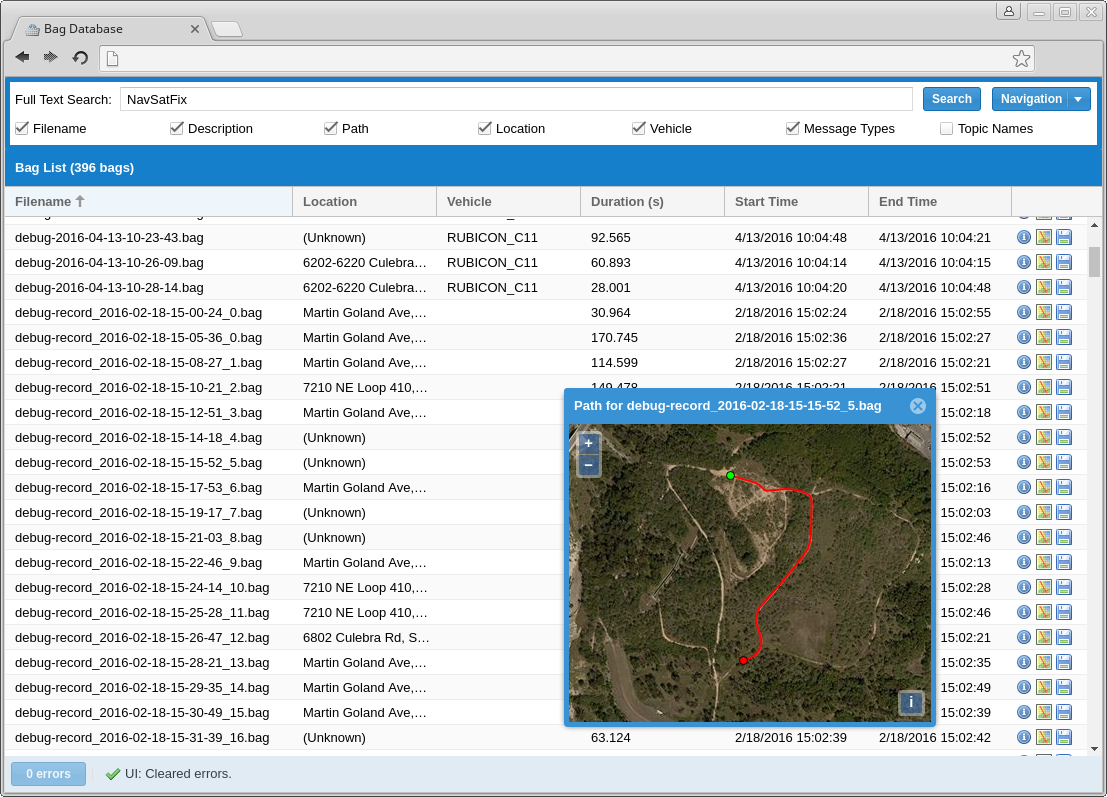
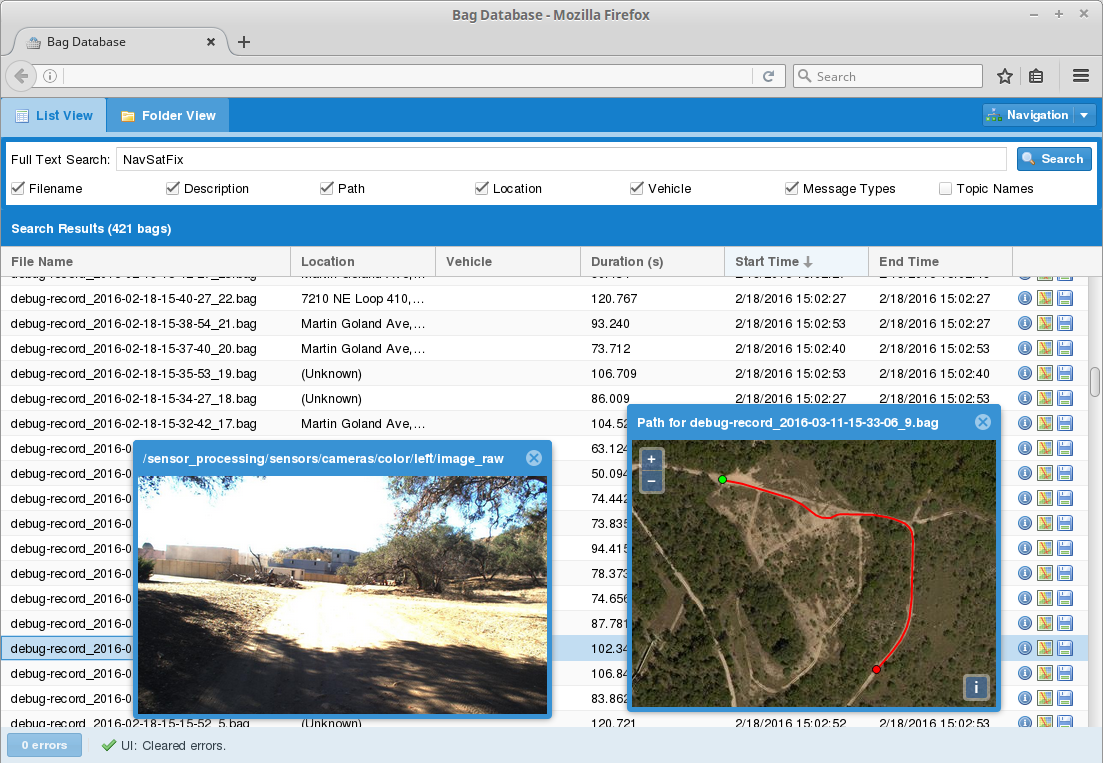
Releasing version 2.4.

diff --git a/src/main/webapp/resources/js/views/AboutWindow.js b/src/main/webapp/resources/js/views/AboutWindow.js
@@ -35,7 +35,7 @@ Ext.define('BagDatabase.views.AboutWindow', {
     layout: 'fit',
     bodyPadding: 5,
     constrainHeader: true,
-    html: "<h2>Bag Database 2.4-SNAPSHOT</h2>" +
+    html: "<h2>Bag Database 2.4</h2>" +
         "<p><a href='https://github.com/swri-robotics/bag-database'>https://github.com/swri-robotics/bag-database</a></p>" +
         "<p>Copyright 2015-2016 Southwest Research Institute</p>" +
         "<br>" +

diff --git a/README.md b/README.md
@@ -29,6 +29,10 @@ are stored and will be manually uploading files there.
   - The topics published
 - **Filtering**: Every column in the grid can by filtered by arbitrary values;
   click the down arrow on a column header to set a filter.
+- **Folder View**: Instead of a flat list of every bag file in the database, you
+  can also see them in a hierarchical view mirroring their layout on the
+  filesystem which indicates how many bags are under every path and can be
+  filtered by filename.
 - **Displaying Metadata**: All of the same information you could obtain with 
   `rosbag info` is extracted and stored so that it can be easily viewed for any
   bag file.

diff --git a/CHANGELOG.md b/CHANGELOG.md
@@ -1,6 +1,6 @@
 # Bag Database changelog
 
-2.4-SNAPSHOT
+2.4
 
 - Fixing the mass vehicle name updater for the admin tool
 - Saving widget states between reloads
